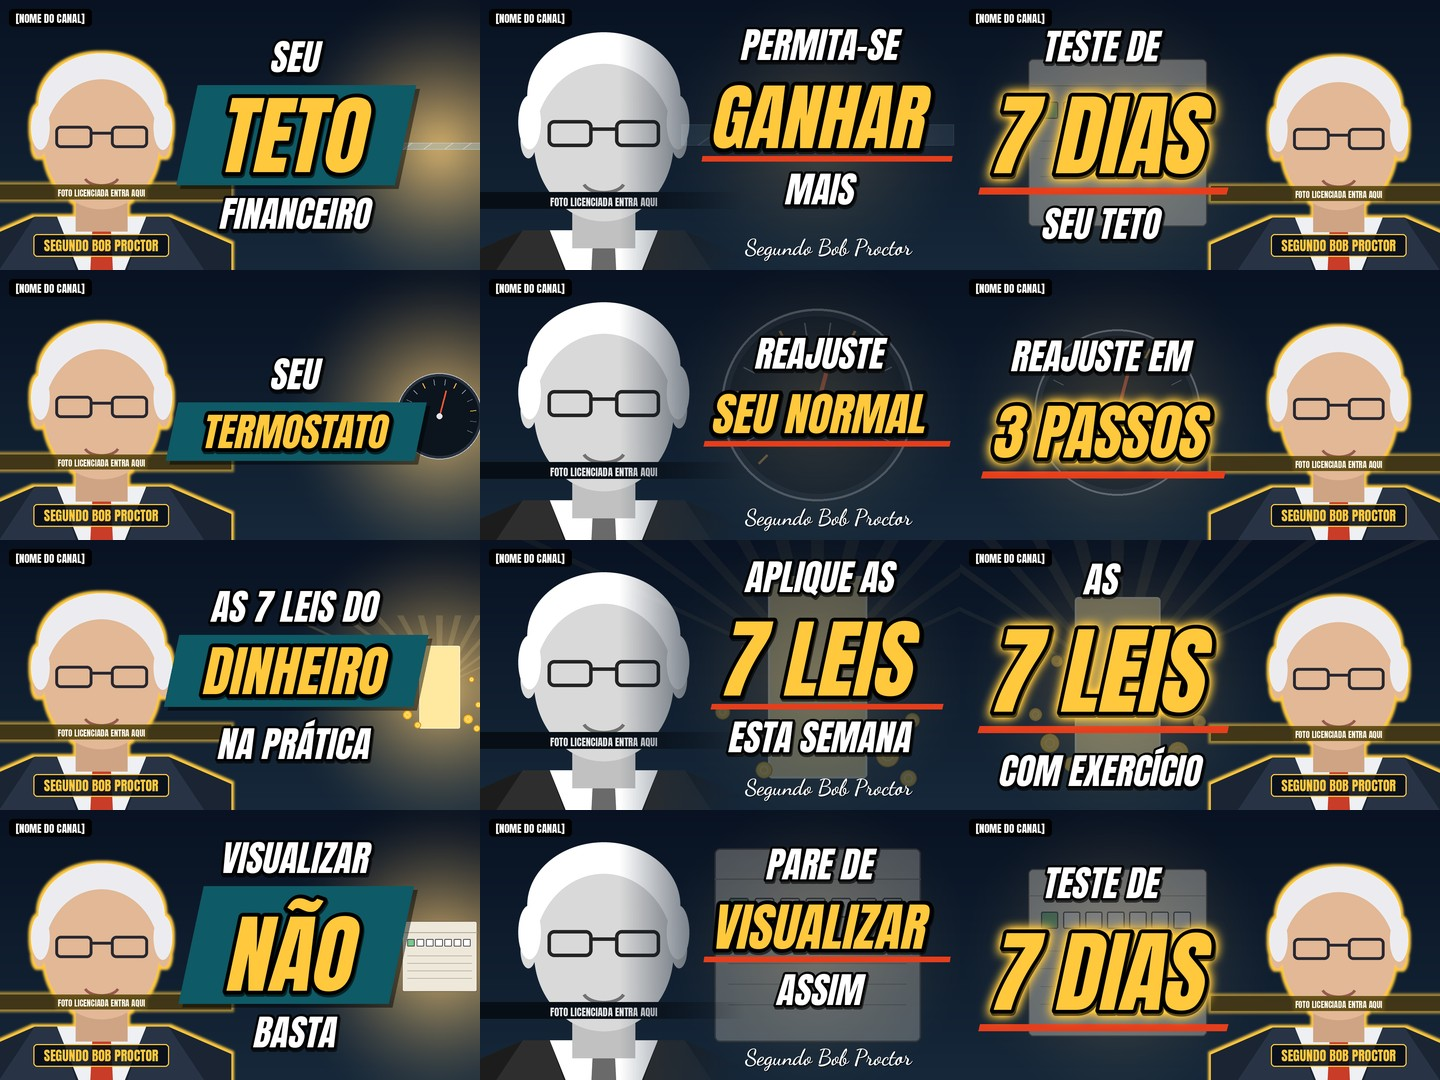
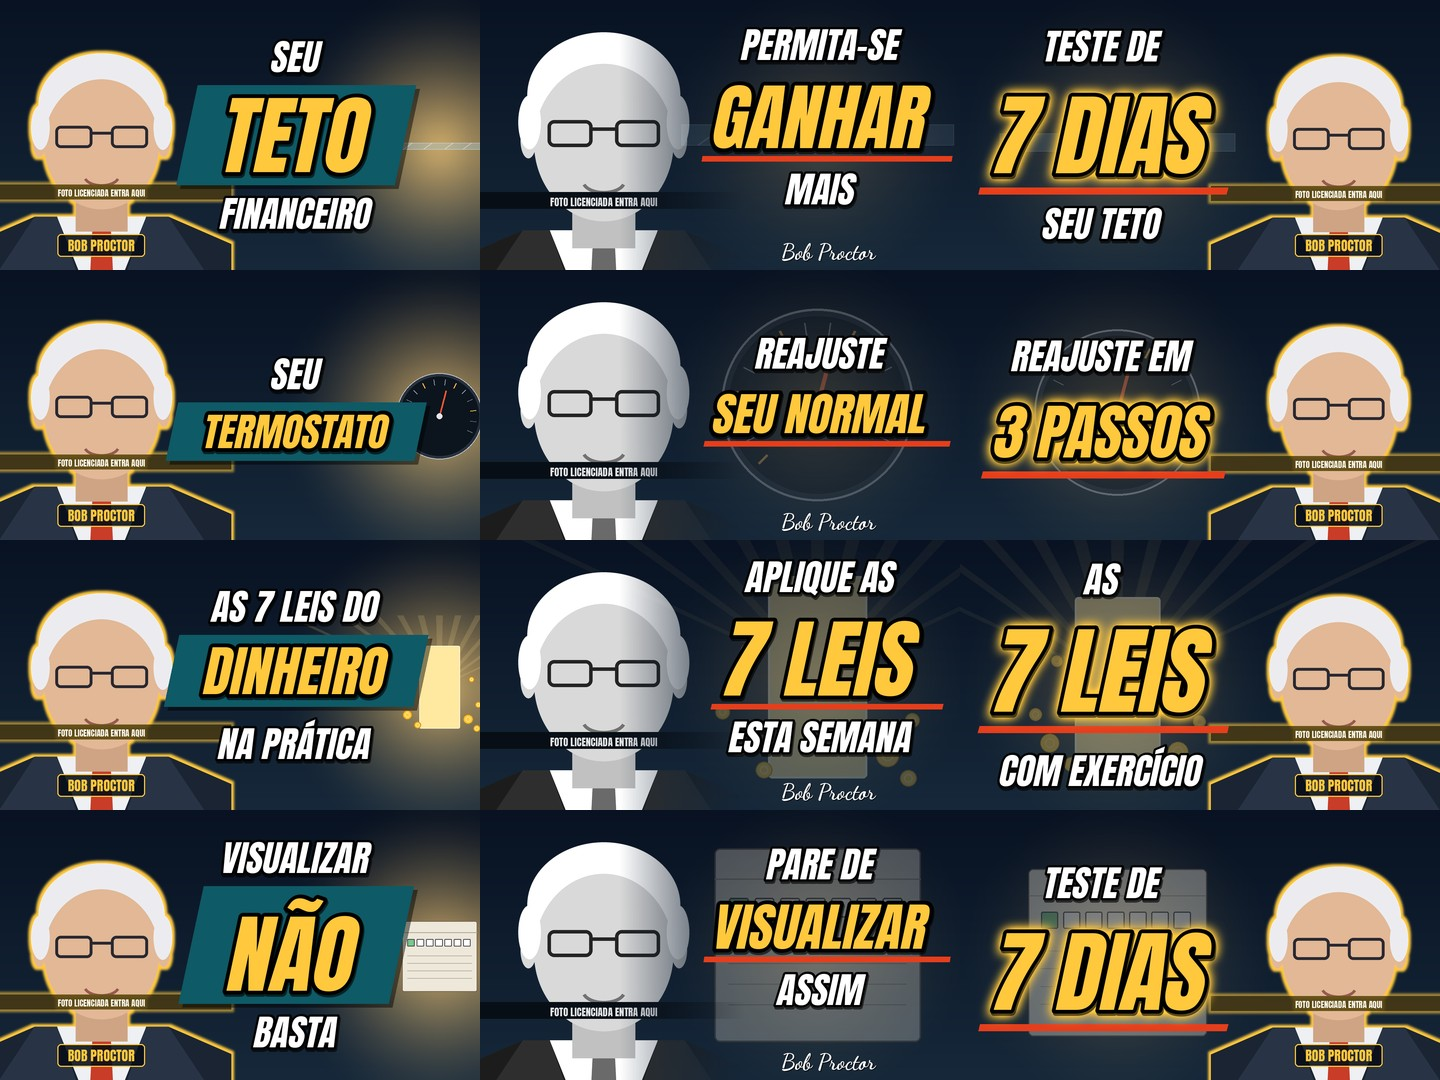
Capas: fita só com "BOB PROCTOR" e sem fita com o nome do canal
Padrão de --nome passa a ser BOB PROCTOR, a assinatura do retrato idem, e o mockup A/B foi refeito sem a marca do canal no canto.

Claude-Session: https://claude.ai/code/session_019iMb2Y98NWqPjrbxA46xnH

diff --git a/ferramentas/capas/compor_capa.py b/ferramentas/capas/compor_capa.py
@@ -385,7 +385,7 @@ def main():
     p = argparse.ArgumentParser(description="Compõe uma capa 1280x720 com a autoridade em destaque.")
     p.add_argument("--modelo", choices=sorted(MODELOS), default="faixa")
     p.add_argument("--autoridade", required=True, help="foto da autoridade (PNG com transparência é o ideal) ou 'placeholder'")
-    p.add_argument("--nome", default="SEGUNDO BOB PROCTOR", help="fita ou assinatura com o nome. Vazio para não mostrar")
+    p.add_argument("--nome", default="BOB PROCTOR", help="fita ou assinatura com o nome. Vazio para não mostrar")
     p.add_argument("--linha1", default="", help="linha pequena de cima")
     p.add_argument("--palavra", required=True, help="palavra, número ou prazo grande")
     p.add_argument("--linha3", default="", help="linha pequena de baixo")

diff --git a/estrategia/capas-template.md b/estrategia/capas-template.md
@@ -22,8 +22,8 @@ Vale para os três padrões. Muda o arranjo, não a identidade.
 | Fonte do texto | Anton, caixa alta, inclinada 12 graus |
 | Fonte da assinatura | Dancing Script (só no padrão retrato) |
 | Contorno da autoridade | Dourado, para destacar do fundo |
-| Nome | "SEGUNDO BOB PROCTOR" em fita dourada ou em assinatura |
-| Marca | Nome do canal pequeno, no canto superior esquerdo |
+| Nome | "BOB PROCTOR" em fita dourada ou em assinatura |
+| Marca | Sem fita nem texto com o nome do canal na capa (decisão de 08/10). A ferramenta ainda aceita `--marca`, desligado por padrão |
 | Tamanho | 1280 x 720, até 2 MB |
 | Canto inferior direito | Livre: é onde o YouTube mostra a duração |
 
@@ -36,7 +36,7 @@ Cada padrão vem de um grupo de capas virais da [pesquisa](../pesquisa/padroes-t
 | Padrão | De onde vem | Arranjo | Tipo de headline | Quando usar |
 | --- | --- | --- | --- | --- |
 | **A. Faixa** | Lewis Howes (de 400 mil a 11 milhões) | Autoridade à esquerda com contorno dourado; símbolo à direita; texto em 3 linhas no centro, com a faixa azul-petróleo atrás da palavra grande | Curiosidade ou tema ("SEU TETO FINANCEIRO") | Padrão de base. Bom para vídeos de conceito |
-| **B. Retrato P&B** | Ensaios com Napoleon Hill (1,2 milhão e 1,1 milhão), "AO ACORDAR OUÇA ISSO" | Autoridade grande em preto e branco à esquerda, que se funde ao fundo; texto em 3 linhas à direita, palavra de impacto dourada com sublinhado vermelho-laranja; assinatura "Segundo Bob Proctor" | Comando ("PERMITA-SE GANHAR MAIS") | Vídeos de ação e de hábito. É o mais próximo do estilo dos ensaios narrados |
+| **B. Retrato P&B** | Ensaios com Napoleon Hill (1,2 milhão e 1,1 milhão), "AO ACORDAR OUÇA ISSO" | Autoridade grande em preto e branco à esquerda, que se funde ao fundo; texto em 3 linhas à direita, palavra de impacto dourada com sublinhado vermelho-laranja; assinatura "Bob Proctor" | Comando ("PERMITA-SE GANHAR MAIS") | Vídeos de ação e de hábito. É o mais próximo do estilo dos ensaios narrados |
 | **C. Prazo gigante** | Capas com prazo do Howes ("EM 30 DIAS", "9 DAYS") e dos mais vistos com número | Autoridade colorida à direita; número ou prazo enorme com brilho dourado à esquerda; sublinhado vermelho-laranja | Prazo ou número ("TESTE DE 7 DIAS", "7 LEIS") | Vídeos de lista, de teste de 7 dias e de passos |
 
 A mesma ideia vale para os três: **a autoridade e os elementos de fundo aparecem juntos**, o texto ocupa mais da metade da capa e a palavra de impacto é a mais legível a 168 x 94 pixels. Os exemplos foram conferidos nesse tamanho.
@@ -76,7 +76,7 @@ A foto é o elemento mais importante e o que mais pede cuidado.
 
 - Pegar foto de outro canal, de captura de tela de vídeo de terceiros ou de miniatura de outro vídeo.
 - Usar imagem gerada por IA de aparência realista dele. Isso exige divulgação de conteúdo sintético na plataforma e agrava o risco acima.
-- Escrever uma citação entre aspas com o nome dele que ele não disse. A fita diz "SEGUNDO BOB PROCTOR" para deixar claro que o vídeo fala dos ensinamentos dele e que ele não está falando nem endossando o canal.
+- Escrever uma citação entre aspas com o nome dele que ele não disse. A fita traz só o nome ("BOB PROCTOR"), sem frase escrita no lugar dele.
 
 **Autorização informada:** o dono do canal informou em 08/10 que o direito de imagem do Proctor está liberado para criação de conteúdo. Ele morreu em 2022, então a liberação precisa vir do instituto ou do espólio. O documento e o escopo estão no [registro](autorizacao-imagem.md), ainda pendente. A autorização da imagem não resolve o direito autoral de cada foto.
 
@@ -89,7 +89,7 @@ A foto é o elemento mais importante e o que mais pede cuidado.
 ```bash
 python3 compor_capa.py --modelo faixa --autoridade foto_proctor.png \
   --linha1 "SEU" --palavra "TETO" --linha3 "FINANCEIRO" --simbolo teto \
-  --marca "NOME DO CANAL" --saida capa_ep01_a.png
+  --saida capa_ep01_a.png
 ```
 
 Troque `--modelo` por `retrato` ou `prazo` para os outros dois padrões. Sem foto ainda, use `--autoridade placeholder`.

diff --git a/estrategia/estrategia-do-canal.md b/estrategia/estrategia-do-canal.md
@@ -91,7 +91,7 @@ Vi as capas dos 8 vídeos de maior alcance da Excelência, 8 do Portador e 9 do 
 
 - **A autoridade sempre na capa**, com elementos de fundo junto dela, como nas capas virais. Nunca só símbolo e texto.
 - **Foto licenciada ou autorizada.** Sem captura de tela de terceiros e sem imagem de IA realista dele.
-- **Sem citação inventada entre aspas com o nome dele.** A fita diz "SEGUNDO BOB PROCTOR".
+- **Sem citação inventada entre aspas com o nome dele.** A fita traz só "BOB PROCTOR".
 - **Texto de 3 a 5 palavras**, em comando ou pergunta, com uma palavra de impacto em dourado.
 - **Três padrões para teste A/B:** faixa, retrato P&B e prazo gigante, na mesma identidade visual. Detalhes em [capas-template.md](capas-template.md).
 
@@ -163,7 +163,7 @@ Repetir o que vencer em dois vídeos seguidos. Não usar limite numérico antes 
 - **Público financeiramente vulnerável:** sem promessa de dinheiro, sem indicar produto, sem pressão de compra. Conteúdo educativo, não consultoria.
 - **Fé:** respeito. Não zombar, não prometer milagre.
 - **Saúde mental:** o tema do medo ganha aviso de buscar ajuda profissional quando a ansiedade atrapalhar a vida.
-- **Proctor:** terceira pessoa, fonte conferida, foto autorizada na capa com a fita "SEGUNDO BOB PROCTOR" e sem citação inventada. A autorização do canal é declarada só na descrição do canal, pelo dono; os vídeos e as descrições dos vídeos não tratam dela.
+- **Proctor:** terceira pessoa, fonte conferida, foto autorizada na capa com a fita "BOB PROCTOR" e sem citação inventada. A autorização do canal é declarada só na descrição do canal, pelo dono; os vídeos e as descrições dos vídeos não tratam dela.
 - **Voz sintética:** declarar quando a plataforma exigir. Cuidar da qualidade (um comentário da amostra, "a tosse foi fantástica!", pode se referir a ruído na narração).
 - **Conteúdo repetitivo:** mudar exemplo, dado e ângulo a cada vídeo e conferir a política atual do YouTube para monetização.
 

diff --git a/ferramentas/capas/README.md b/ferramentas/capas/README.md
@@ -13,7 +13,7 @@ pip install pillow
 ```bash
 python3 compor_capa.py --modelo faixa --autoridade foto_proctor.png \
   --linha1 "SEU" --palavra "TETO" --linha3 "FINANCEIRO" --simbolo teto \
-  --marca "NOME DO CANAL" --saida capa_ep01_faixa.png
+  --saida capa_ep01_faixa.png
 ```
 
 Os três modelos usam as mesmas opções. Troque `--modelo`:
@@ -28,12 +28,12 @@ Os três modelos usam as mesmas opções. Troque `--modelo`:
 | --- | --- |
 | `--autoridade` | Foto da autoridade (PNG com fundo transparente é o ideal) ou `placeholder` para testar o layout |
 | `--linha1`, `--palavra`, `--linha3` | As três linhas do texto. A palavra é a grande. As outras duas são opcionais |
-| `--nome` | Texto da fita ou da assinatura. Padrão: `SEGUNDO BOB PROCTOR` |
+| `--nome` | Texto da fita ou da assinatura. Padrão: `BOB PROCTOR` |
 | `--simbolo` | Arte provisória de fundo: `teto`, `termostato`, `caderno`, `porta` |
 | `--fundo` | Imagem de fundo própria (gerada), no lugar da arte provisória |
 | `--paleta` | `marca` (padrão do canal) ou `vermelha` (variação de teste da faixa) |
 | `--pb` | Autoridade em preto e branco (o modelo `retrato` já usa) |
-| `--marca` | Nome do canal, pequeno, no canto |
+| `--marca` | Texto pequeno no canto (por exemplo o nome do canal). Desligado por padrão: as capas não levam fita com o nome do canal |
 | `--sem-rotulo` | Tira o rótulo "foto licenciada entra aqui" do placeholder |
 | `--saida` | Arquivo de saída. Manter até 2 MB para o YouTube |
 

diff --git a/README.md b/README.md
@@ -10,7 +10,7 @@ O canal usa **roteiros originais**. Autoridades entram como **fonte citada**, nu
 2. **Narração:** voz própria ou voz sintética genérica, declarada quando a plataforma exigir. Sem clonagem da voz de pessoa real, e sem imitar o estilo para parecer que é ela.
 3. **Sem biografia inventada.** O narrador não conta infância ou casos pessoais que não aconteceram. Exemplos hipotéticos são ditos como hipotéticos.
 4. **Dados com fonte na tela.** Sem promessa de resultado (dinheiro, saúde) e sem indicar produtos ou ativos.
-5. **Títulos e capas:** a capa traz a autoridade, com foto **licenciada ou autorizada** (nunca captura de tela de terceiros nem imagem de IA realista dele). Sem citação inventada entre aspas com o nome dele, com a fita "SEGUNDO BOB PROCTOR". A autorização do canal é declarada só na descrição do canal; os vídeos e as descrições dos vídeos não falam dela.
+5. **Títulos e capas:** a capa traz a autoridade, com foto **licenciada ou autorizada** (nunca captura de tela de terceiros nem imagem de IA realista dele). Sem citação inventada entre aspas com o nome dele, com a fita só com o nome "BOB PROCTOR" e sem fita com o nome do canal. A autorização do canal é declarada só na descrição do canal; os vídeos e as descrições dos vídeos não falam dela.
 
 Detalhes e checklist: [`checklist-publicacao.md`](checklist-publicacao.md). O checklist ainda tem itens do projeto anterior de finanças e precisa ser revisto.
 
